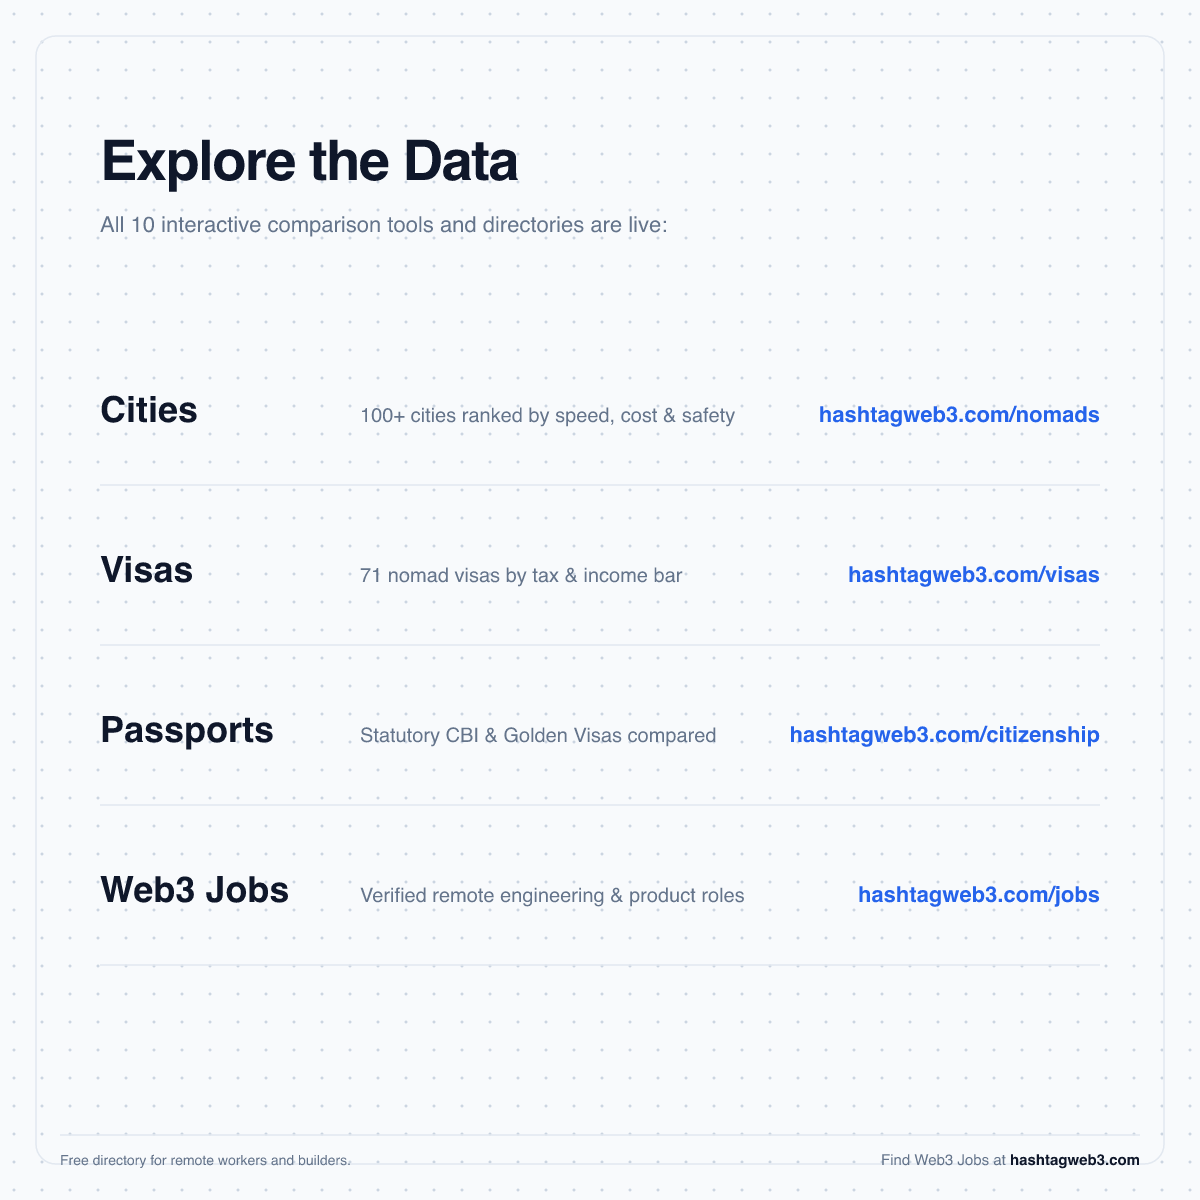
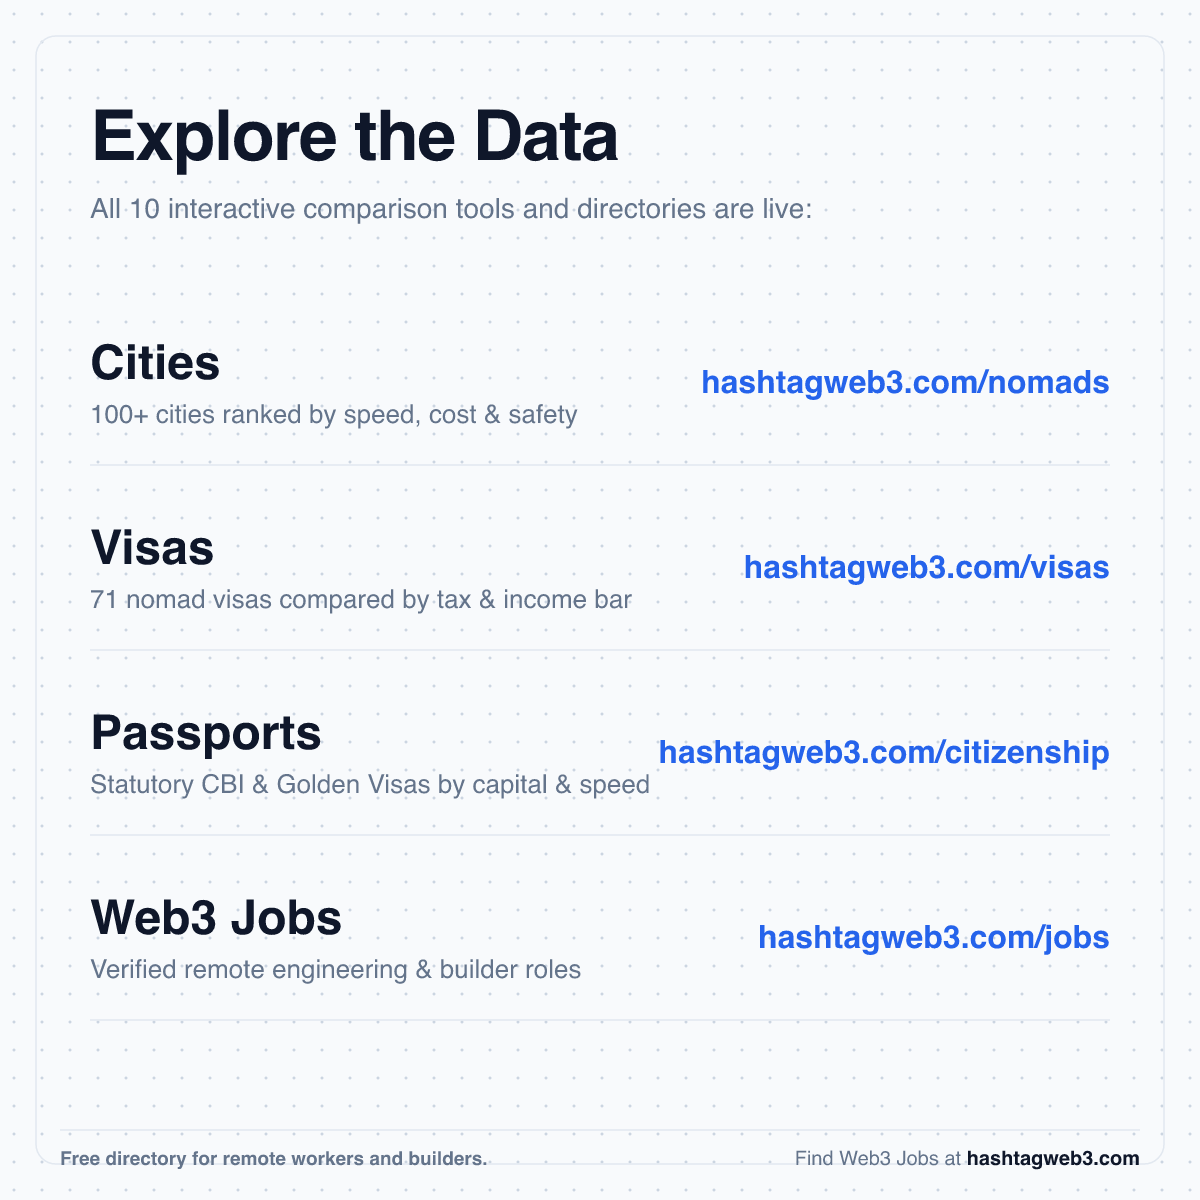
style(social): enlarge typography on intro cover and outro directory cards

diff --git a/scripts/generate-thread-cover-outro.ts b/scripts/generate-thread-cover-outro.ts
@@ -9,7 +9,7 @@ const ROOT = path.resolve(__dirname, '..');
 const OUT_DIR = path.join(ROOT, 'public/images/social');
 const ARTIFACT_DIR = '/Users/vedang/.gemini/antigravity/brain/d8e0523d-8c6b-4440-8112-6fd00000dadf';
 
-// 1. Minimal Cover (Zero pills, zero AI clutter, pure clean typography & crosshairs)
+// 1. Minimal Cover with Big, Highly-Legible Typography
 function buildCoverSvg(): string {
   return `<svg width="1200" height="1200" viewBox="0 0 1200 1200" xmlns="http://www.w3.org/2000/svg" style="background:#F8FAFC; font-family:system-ui,-apple-system,'SF Pro Display','Segoe UI',Roboto,Helvetica,sans-serif;">
   <defs>
@@ -23,65 +23,65 @@ function buildCoverSvg(): string {
   <rect width="1200" height="1200" fill="url(#dotGridCover)" />
   <rect x="36" y="36" width="1128" height="1128" rx="20" fill="none" stroke="#E2E8F0" stroke-width="1.5" />
 
-  <!-- Title Section -->
-  <g transform="translate(600, 150)">
-    <text x="0" y="0" text-anchor="middle" font-size="52" font-weight="900" fill="#0F172A" letter-spacing="-1px">10 Decision Matrices</text>
-    <text x="0" y="56" text-anchor="middle" font-size="32" font-weight="700" fill="#475569" letter-spacing="-0.5px">for Remote Builders</text>
-    <text x="0" y="102" text-anchor="middle" font-size="18" font-weight="500" fill="#64748B">Cities · Visas · Passports · Web3 Tech Hubs</text>
+  <!-- Title Section (Big, Bold, Legible) -->
+  <g transform="translate(600, 135)">
+    <text x="0" y="0" text-anchor="middle" font-size="68" font-weight="900" fill="#0F172A" letter-spacing="-1.5px">10 Decision Matrices</text>
+    <text x="0" y="68" text-anchor="middle" font-size="40" font-weight="800" fill="#475569" letter-spacing="-0.5px">for Remote Builders</text>
+    <text x="0" y="122" text-anchor="middle" font-size="24" font-weight="600" fill="#64748B">Cities · Visas · Passports · Web3 Tech Hubs</text>
   </g>
 
-  <!-- Minimal 2x2 Crosshairs (Zero pills, clean typography) -->
-  <line x1="120" y1="660" x2="1080" y2="660" stroke="#64748B" stroke-width="2" />
-  <polygon points="105,660 122,653 122,667" fill="#64748B" />
-  <polygon points="1095,660 1078,653 1078,667" fill="#64748B" />
+  <!-- 2x2 Crosshairs -->
+  <line x1="90" y1="675" x2="1110" y2="675" stroke="#64748B" stroke-width="2.5" />
+  <polygon points="75,675 92,667 92,683" fill="#64748B" />
+  <polygon points="1125,675 1108,667 1108,683" fill="#64748B" />
 
-  <line x1="600" y1="360" x2="600" y2="960" stroke="#64748B" stroke-width="2" />
-  <polygon points="600,345 593,362 607,362" fill="#64748B" />
-  <polygon points="600,975 593,958 607,958" fill="#64748B" />
+  <line x1="600" y1="365" x2="600" y2="985" stroke="#64748B" stroke-width="2.5" />
+  <polygon points="600,350 592,367 608,367" fill="#64748B" />
+  <polygon points="600,1000 592,983 608,983" fill="#64748B" />
 
-  <!-- Axis Direction Labels -->
-  <text x="600" y="328" text-anchor="middle" font-size="14" font-weight="700" fill="#64748B" letter-spacing="1.5px">FREEDOM &amp; RUNWAY</text>
-  <text x="600" y="1010" text-anchor="middle" font-size="14" font-weight="700" fill="#64748B" letter-spacing="1.5px">RESTRICTIVE &amp; SLOW</text>
-  <text x="120" y="645" text-anchor="start" font-size="14" font-weight="700" fill="#64748B" letter-spacing="1.5px">EXPENSIVE</text>
-  <text x="1080" y="645" text-anchor="end" font-size="14" font-weight="700" fill="#64748B" letter-spacing="1.5px">AFFORDABLE</text>
+  <!-- Axis Direction Labels (Bigger & Bolder) -->
+  <text x="600" y="325" text-anchor="middle" font-size="20" font-weight="800" fill="#64748B" letter-spacing="2px">FREEDOM &amp; RUNWAY</text>
+  <text x="600" y="1040" text-anchor="middle" font-size="20" font-weight="800" fill="#64748B" letter-spacing="2px">RESTRICTIVE &amp; SLOW</text>
+  <text x="95" y="655" text-anchor="start" font-size="20" font-weight="800" fill="#64748B" letter-spacing="2px">EXPENSIVE</text>
+  <text x="1105" y="655" text-anchor="end" font-size="20" font-weight="800" fill="#64748B" letter-spacing="2px">AFFORDABLE</text>
 
-  <!-- 4 Quadrants (Clean text, no pill containers) -->
+  <!-- 4 Quadrants (Large, High-Contrast Typography) -->
   <!-- Top Right -->
-  <g transform="translate(850, 490)">
-    <text x="0" y="0" text-anchor="middle" font-size="24" font-weight="800" fill="#059669">Sweet Spots</text>
-    <text x="0" y="32" text-anchor="middle" font-size="16" font-weight="600" fill="#0F172A">Chiang Mai · Da Nang · Lisbon</text>
-    <text x="0" y="58" text-anchor="middle" font-size="14.5" font-weight="500" fill="#64748B">Thailand DTV · 0% Tax · Fast Fiber</text>
+  <g transform="translate(855, 480)">
+    <text x="0" y="0" text-anchor="middle" font-size="38" font-weight="900" fill="#059669">Sweet Spots</text>
+    <text x="0" y="46" text-anchor="middle" font-size="24" font-weight="700" fill="#0F172A">Chiang Mai · Da Nang · Lisbon</text>
+    <text x="0" y="86" text-anchor="middle" font-size="21" font-weight="500" fill="#64748B">Thailand DTV · 0% Tax · Fast Fiber</text>
   </g>
 
   <!-- Top Left -->
-  <g transform="translate(350, 490)">
-    <text x="0" y="0" text-anchor="middle" font-size="24" font-weight="800" fill="#2563EB">Global Tech Capitals</text>
-    <text x="0" y="32" text-anchor="middle" font-size="16" font-weight="600" fill="#0F172A">San Francisco · London · NYC</text>
-    <text x="0" y="58" text-anchor="middle" font-size="14.5" font-weight="500" fill="#64748B">Dubai VARA · Singapore MAS</text>
+  <g transform="translate(345, 480)">
+    <text x="0" y="0" text-anchor="middle" font-size="38" font-weight="900" fill="#2563EB">Global Tech Capitals</text>
+    <text x="0" y="46" text-anchor="middle" font-size="24" font-weight="700" fill="#0F172A">San Francisco · London · NYC</text>
+    <text x="0" y="86" text-anchor="middle" font-size="21" font-weight="500" fill="#64748B">Dubai VARA · Singapore MAS</text>
   </g>
 
   <!-- Bottom Right -->
-  <g transform="translate(850, 805)">
-    <text x="0" y="0" text-anchor="middle" font-size="24" font-weight="800" fill="#D97706">Fast Runways</text>
-    <text x="0" y="32" text-anchor="middle" font-size="16" font-weight="600" fill="#0F172A">Bali · Medellín · Buenos Aires</text>
-    <text x="0" y="58" text-anchor="middle" font-size="14.5" font-weight="500" fill="#64748B">Vanuatu CBI · Caribbean Visas</text>
+  <g transform="translate(855, 815)">
+    <text x="0" y="0" text-anchor="middle" font-size="38" font-weight="900" fill="#D97706">Fast Runways</text>
+    <text x="0" y="46" text-anchor="middle" font-size="24" font-weight="700" fill="#0F172A">Bali · Medellín · Buenos Aires</text>
+    <text x="0" y="86" text-anchor="middle" font-size="21" font-weight="500" fill="#64748B">Vanuatu CBI · Caribbean Visas</text>
   </g>
 
   <!-- Bottom Left -->
-  <g transform="translate(350, 805)">
-    <text x="0" y="0" text-anchor="middle" font-size="24" font-weight="800" fill="#475569">Legacy &amp; High Capital</text>
-    <text x="0" y="32" text-anchor="middle" font-size="16" font-weight="600" fill="#0F172A">Tokyo · Zurich · Malta</text>
-    <text x="0" y="58" text-anchor="middle" font-size="14.5" font-weight="500" fill="#64748B">Naturalization &amp; €750k CBI</text>
+  <g transform="translate(345, 815)">
+    <text x="0" y="0" text-anchor="middle" font-size="38" font-weight="900" fill="#475569">Legacy &amp; High Capital</text>
+    <text x="0" y="46" text-anchor="middle" font-size="24" font-weight="700" fill="#0F172A">Tokyo · Zurich · Malta</text>
+    <text x="0" y="86" text-anchor="middle" font-size="21" font-weight="500" fill="#64748B">Naturalization &amp; €750k CBI</text>
   </g>
 
-  <!-- Footer -->
-  <line x1="60" y1="1135" x2="1140" y2="1135" stroke="#E2E8F0" stroke-width="1.5" />
-  <text x="60" y="1165" font-size="14" font-weight="500" fill="#64748B">100+ Cities · 71 Nomad Visas · 15 CBI Programs</text>
-  <text x="1140" y="1165" text-anchor="end" font-size="15"><tspan fill="#64748B" font-weight="500">Find Web3 Jobs at </tspan><tspan fill="#0F172A" font-weight="700">hashtagweb3.com</tspan></text>
+  <!-- Footer (Bigger) -->
+  <line x1="60" y1="1130" x2="1140" y2="1130" stroke="#E2E8F0" stroke-width="1.5" />
+  <text x="60" y="1165" font-size="19" font-weight="600" fill="#64748B">100+ Cities · 71 Nomad Visas · 15 CBI Programs</text>
+  <text x="1140" y="1165" text-anchor="end" font-size="20"><tspan fill="#64748B" font-weight="500">Find Web3 Jobs at </tspan><tspan fill="#0F172A" font-weight="800">hashtagweb3.com</tspan></text>
 </svg>`;
 }
 
-// 2. Minimal Outro (Zero pills, zero marketing filler, clean links)
+// 2. Minimal Outro with Big, Bold Typography
 function buildOutroSvg(): string {
   return `<svg width="1200" height="1200" viewBox="0 0 1200 1200" xmlns="http://www.w3.org/2000/svg" style="background:#F8FAFC; font-family:system-ui,-apple-system,'SF Pro Display','Segoe UI',Roboto,Helvetica,sans-serif;">
   <defs>
@@ -95,55 +95,55 @@ function buildOutroSvg(): string {
   <rect x="36" y="36" width="1128" height="1128" rx="20" fill="none" stroke="#E2E8F0" stroke-width="1.5" />
 
   <!-- Big Clean Title -->
-  <g transform="translate(100, 180)">
-    <text x="0" y="0" font-size="56" font-weight="900" fill="#0F172A" letter-spacing="-1.5px">Explore the Data</text>
-    <text x="0" y="52" font-size="22" font-weight="500" fill="#64748B">All 10 interactive comparison tools and directories are live:</text>
+  <g transform="translate(90, 160)">
+    <text x="0" y="0" font-size="70" font-weight="900" fill="#0F172A" letter-spacing="-1.5px">Explore the Data</text>
+    <text x="0" y="58" font-size="28" font-weight="500" fill="#64748B">All 10 interactive comparison tools and directories are live:</text>
   </g>
 
-  <!-- 4 Clean Rows (Zero pills, perfectly balanced vertical spacing) -->
-  <g transform="translate(100, 380)">
+  <!-- 4 Clean Stacked Rows (Evenly spaced across the canvas) -->
+  <g transform="translate(90, 335)">
     <!-- Row 1: Cities -->
     <g transform="translate(0, 0)">
-      <text x="0" y="42" font-size="36" font-weight="800" fill="#0F172A">Cities</text>
-      <text x="260" y="42" font-size="20" font-weight="500" fill="#64748B">100+ cities ranked by speed, cost &amp; safety</text>
-      <text x="1000" y="42" text-anchor="end" font-size="22" font-weight="700" fill="#2563EB">hashtagweb3.com/nomads</text>
-      <line x1="0" y1="105" x2="1000" y2="105" stroke="#E2E8F0" stroke-width="1.5" />
+      <text x="0" y="44" font-size="48" font-weight="900" fill="#0F172A">Cities</text>
+      <text x="0" y="88" font-size="26" font-weight="500" fill="#64748B">100+ cities ranked by speed, cost &amp; safety</text>
+      <text x="1020" y="58" text-anchor="end" font-size="32" font-weight="800" fill="#2563EB">hashtagweb3.com/nomads</text>
+      <line x1="0" y1="130" x2="1020" y2="130" stroke="#E2E8F0" stroke-width="1.5" />
     </g>
 
     <!-- Row 2: Visas -->
-    <g transform="translate(0, 160)">
-      <text x="0" y="42" font-size="36" font-weight="800" fill="#0F172A">Visas</text>
-      <text x="260" y="42" font-size="20" font-weight="500" fill="#64748B">71 nomad visas by tax &amp; income bar</text>
-      <text x="1000" y="42" text-anchor="end" font-size="22" font-weight="700" fill="#2563EB">hashtagweb3.com/visas</text>
-      <line x1="0" y1="105" x2="1000" y2="105" stroke="#E2E8F0" stroke-width="1.5" />
+    <g transform="translate(0, 185)">
+      <text x="0" y="44" font-size="48" font-weight="900" fill="#0F172A">Visas</text>
+      <text x="0" y="88" font-size="26" font-weight="500" fill="#64748B">71 nomad visas compared by tax &amp; income bar</text>
+      <text x="1020" y="58" text-anchor="end" font-size="32" font-weight="800" fill="#2563EB">hashtagweb3.com/visas</text>
+      <line x1="0" y1="130" x2="1020" y2="130" stroke="#E2E8F0" stroke-width="1.5" />
     </g>
 
     <!-- Row 3: Passports -->
-    <g transform="translate(0, 320)">
-      <text x="0" y="42" font-size="36" font-weight="800" fill="#0F172A">Passports</text>
-      <text x="260" y="42" font-size="20" font-weight="500" fill="#64748B">Statutory CBI &amp; Golden Visas compared</text>
-      <text x="1000" y="42" text-anchor="end" font-size="22" font-weight="700" fill="#2563EB">hashtagweb3.com/citizenship</text>
-      <line x1="0" y1="105" x2="1000" y2="105" stroke="#E2E8F0" stroke-width="1.5" />
+    <g transform="translate(0, 370)">
+      <text x="0" y="44" font-size="48" font-weight="900" fill="#0F172A">Passports</text>
+      <text x="0" y="88" font-size="26" font-weight="500" fill="#64748B">Statutory CBI &amp; Golden Visas by capital &amp; speed</text>
+      <text x="1020" y="58" text-anchor="end" font-size="32" font-weight="800" fill="#2563EB">hashtagweb3.com/citizenship</text>
+      <line x1="0" y1="130" x2="1020" y2="130" stroke="#E2E8F0" stroke-width="1.5" />
     </g>
 
     <!-- Row 4: Web3 Jobs -->
-    <g transform="translate(0, 480)">
-      <text x="0" y="42" font-size="36" font-weight="800" fill="#0F172A">Web3 Jobs</text>
-      <text x="260" y="42" font-size="20" font-weight="500" fill="#64748B">Verified remote engineering &amp; product roles</text>
-      <text x="1000" y="42" text-anchor="end" font-size="22" font-weight="700" fill="#2563EB">hashtagweb3.com/jobs</text>
-      <line x1="0" y1="105" x2="1000" y2="105" stroke="#E2E8F0" stroke-width="1.5" />
+    <g transform="translate(0, 555)">
+      <text x="0" y="44" font-size="48" font-weight="900" fill="#0F172A">Web3 Jobs</text>
+      <text x="0" y="88" font-size="26" font-weight="500" fill="#64748B">Verified remote engineering &amp; builder roles</text>
+      <text x="1020" y="58" text-anchor="end" font-size="32" font-weight="800" fill="#2563EB">hashtagweb3.com/jobs</text>
+      <line x1="0" y1="130" x2="1020" y2="130" stroke="#E2E8F0" stroke-width="1.5" />
     </g>
   </g>
 
   <!-- Clean Minimal Footer -->
-  <line x1="60" y1="1135" x2="1140" y2="1135" stroke="#E2E8F0" stroke-width="1.5" />
-  <text x="60" y="1165" font-size="14" font-weight="500" fill="#64748B">Free directory for remote workers and builders.</text>
-  <text x="1140" y="1165" text-anchor="end" font-size="15"><tspan fill="#64748B" font-weight="500">Find Web3 Jobs at </tspan><tspan fill="#0F172A" font-weight="700">hashtagweb3.com</tspan></text>
+  <line x1="60" y1="1130" x2="1140" y2="1130" stroke="#E2E8F0" stroke-width="1.5" />
+  <text x="60" y="1165" font-size="19" font-weight="600" fill="#64748B">Free directory for remote workers and builders.</text>
+  <text x="1140" y="1165" text-anchor="end" font-size="20"><tspan fill="#64748B" font-weight="500">Find Web3 Jobs at </tspan><tspan fill="#0F172A" font-weight="800">hashtagweb3.com</tspan></text>
 </svg>`;
 }
 
 async function main() {
-  console.log('Rendering clean, minimal thread cover and outro graphics...');
+  console.log('Rendering clean, minimal thread cover and outro graphics with larger typography...');
   
   // 1. Cover
   const coverSvg = buildCoverSvg();
@@ -175,7 +175,7 @@ async function main() {
   fs.writeFileSync(path.join(ARTIFACT_DIR, 'thread-outro-resources.svg'), outroSvg);
   fs.writeFileSync(path.join(ARTIFACT_DIR, 'thread-outro-resources.png'), outroPng);
 
-  console.log('Finished rendering thread cover and outro visuals successfully!');
+  console.log('Finished rendering larger typography thread cover and outro visuals successfully!');
 }
 
 main().catch(err => {
